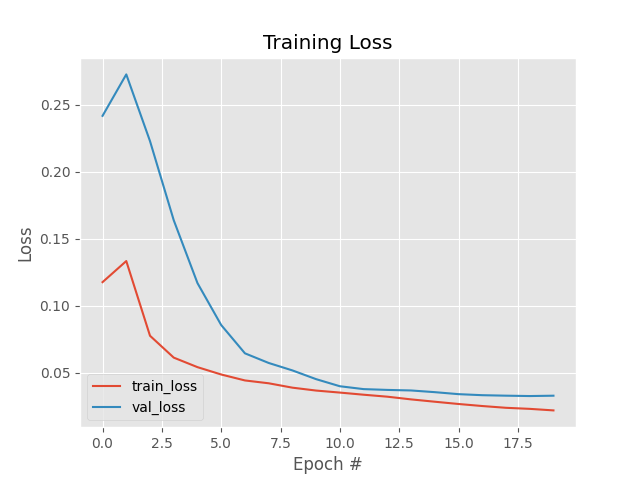
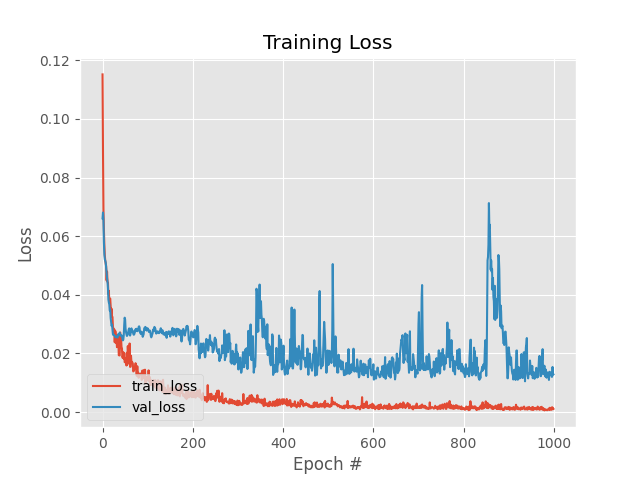
sdfdffgdf

diff --git a/train_unsupervised_autoencoder.py b/train_unsupervised_autoencoder.py
@@ -3,6 +3,9 @@
 
 # set the matplotlib backend so figures can be saved in the background
 import matplotlib
+from keras.api._v2.keras.layers.experimental import preprocessing
+from keras_preprocessing.image import ImageDataGenerator
+from tensorflow.python.keras import Sequential
 
 matplotlib.use("Agg")
 
@@ -93,56 +96,90 @@ args = vars(ap.parse_args())
 
 # initialize the number of epochs to train for, initial learning rate,
 # and batch size
-EPOCHS = 20
+EPOCHS = 1000
 INIT_LR = 1e-3
-BS = 32
+BS = 14
 
 paper_dir, other_dir = os.listdir("paper"), os.listdir("other")
-trainX = np.array([imageio.imread("paper/" + f) for f in paper_dir] + [imageio.imread("other/" + f) for f in other_dir])
+trainX = [imageio.imread("paper/" + f) for f in paper_dir] + [imageio.imread("other/" + f) for f in other_dir]
+trainX = np.array([cv2.resize(i, (45, 45)) for i in trainX])
 trainY = np.array(([0] * len(paper_dir)) + ([1] * len(other_dir)))
 
-#print(trainX.shape)
+# print(trainX.shape)
 
-#trainX: np.ndarray
+# trainX: np.ndarray
 
-#print("[INFO] loading MNIST dataset...")
-#((trainX, trainY), (testX, testY)) = mnist.load_data()
+# print("[INFO] loading MNIST dataset...")
+# ((trainX, trainY), (testX, testY)) = mnist.load_data()
 
-#print(trainX.shape)
+# print(trainX.shape)
 
 # build our unsupervised dataset of images with a small amount of
 # contamination (i.e., anomalies) added into it
 print("[INFO] creating unsupervised dataset...")
-images = build_unsupervised_dataset(trainX, trainY, contam=0.07)
+images = build_unsupervised_dataset(trainX, trainY, contam=0.0)
+images2 = build_unsupervised_dataset(trainX, trainY, contam=0.07)
+
+datagen = ImageDataGenerator(
+    featurewise_center=False,  # set input mean to 0 over the dataset
+    samplewise_center=False,  # set each sample mean to 0
+    featurewise_std_normalization=False,  # divide inputs by std of the dataset
+    samplewise_std_normalization=False,  # divide each input by its std
+    zca_whitening=False,  # apply ZCA whitening
+    zca_epsilon=1e-06,  # epsilon for ZCA whitening
+    rotation_range=180,  # randomly rotate images in the range (degrees, 0 to 180)  <<1    0 => 30
+    shear_range=0.2,  # set range for random shear  <<3<<4  0 => 0.1 => 0.2
+    zoom_range=0.3,  # set range for random zoom    <<1<<2<<3   0 => 0.1 => 0.2 =>0.3
+    channel_shift_range=0.2,  # set range for random channel shifts     <<5<<6   0.=>0.1=>0.2
+    # set mode for filling points outside the input boundaries
+    fill_mode='nearest',
+    cval=0.,  # value used for fill_mode = "constant"
+    horizontal_flip=True,  # randomly flip images
+    vertical_flip=True,  # randomly flip images    <<1    false => True
+    # set rescaling factor (applied before any other transformation)
+    rescale=None,
+    # set function that will be applied on each input
+    preprocessing_function=None,
+    # image data format, either "channels_first" or "channels_last"
+    data_format="channels_last",
+    # fraction of images reserved for validation (strictly between 0 and 1)
+    validation_split=0.0)
 
 # add a channel dimension to every image in the dataset, then scale
 # the pixel intensities to the range [0, 1]
-#images = np.expand_dims(images, axis=-1)
+# images = np.expand_dims(images, axis=-1)
 images = images.astype("float32") / 255.0
+images2 = images2.astype("float32") / 255.0
 
 # construct the training and testing split
 (trainX, testX) = train_test_split(images, test_size=0.2,
                                    random_state=42)
 
+# construct the training and testing split
+(trainX2, testX2) = train_test_split(images2, test_size=0.2,
+                                     random_state=42)
+
 # construct our convolutional autoencoder
 print("[INFO] building autoencoder...")
-(encoder, decoder, autoencoder) = ConvAutoencoder.build(182, 182, 3, latentDim=64)
+(encoder, decoder, autoencoder) = ConvAutoencoder.build(45, 45, 3)
 opt = Adam(lr=INIT_LR, decay=INIT_LR / EPOCHS)
 autoencoder.compile(loss="mse", optimizer=opt)
 
 # train the convolutional autoencoder
 H = autoencoder.fit(
-    trainX, trainX,
-    validation_data=(testX, testX),
-    epochs=EPOCHS,
-    batch_size=BS)
+    datagen.flow(trainX, trainX,
+                 batch_size=BS),
+    steps_per_epoch=2,
+    validation_data=datagen.flow(testX2, testX2,
+                                 batch_size=BS),
+    epochs=EPOCHS)
 
 # use the convolutional autoencoder to make predictions on the
 # testing images, construct the visualization, and then save it
 # to disk
 print("[INFO] making predictions...")
-decoded = autoencoder.predict(testX)
-vis = visualize_predictions(decoded, testX)
+decoded = autoencoder.predict(testX2)
+vis = visualize_predictions(decoded, testX2)
 cv2.imwrite(args["vis"], vis)
 
 # construct a plot that plots and saves the training history
@@ -160,7 +197,7 @@ plt.savefig(args["plot"])
 # serialize the image data to disk
 print("[INFO] saving image data...")
 f = open(args["dataset"], "wb")
-f.write(pickle.dumps(images))
+f.write(pickle.dumps(images2))
 f.close()
 
 # serialize the autoencoder model to disk

diff --git a/find_anomalies.py b/find_anomalies.py
@@ -48,9 +48,11 @@ print("[INFO] {} outliers found".format(len(idxs)))
 
 # initialize the outputs array
 outputs = None
+outputs2 = None
 
 # loop over the indexes of images with a high mean squared error term
-for i in idxs:
+for i in [x[0] for x in sorted(enumerate(images), key=lambda a: errors[a[0]])][15:]:
+
 	# grab the original image and reconstructed image
 	original = (images[i] * 255).astype("uint8")
 	recon = (decoded[i] * 255).astype("uint8")
@@ -67,6 +69,24 @@ for i in idxs:
 	else:
 		outputs = np.vstack([outputs, output])
 
+for i in idxs:
+	# grab the original image and reconstructed image
+	original = (images[i] * 255).astype("uint8")
+	recon = (decoded[i] * 255).astype("uint8")
+
+	# stack the original and reconstructed image side-by-side
+	output2 = np.hstack([original, recon])
+
+	# if the outputs array is empty, initialize it as the current
+	# side-by-side image display
+	if outputs2 is None:
+		outputs2 = output2
+
+	# otherwise, vertically stack the outputs
+	else:
+		outputs2 = np.vstack([outputs2, output2])
+
 # show the output visualization
 cv2.imshow("Output", outputs)
+cv2.imshow("Output2", outputs2)
 cv2.waitKey(0)
